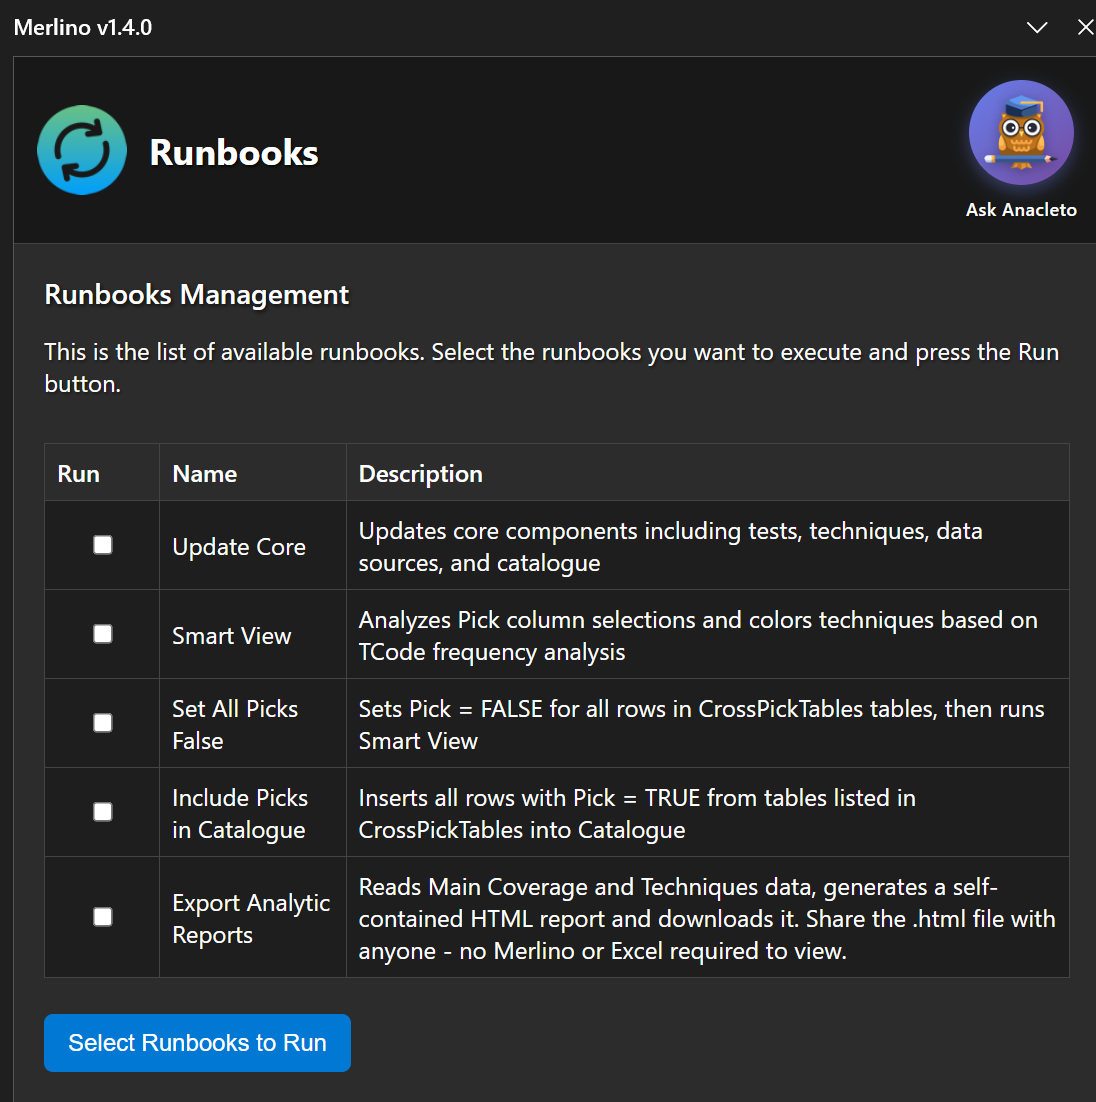
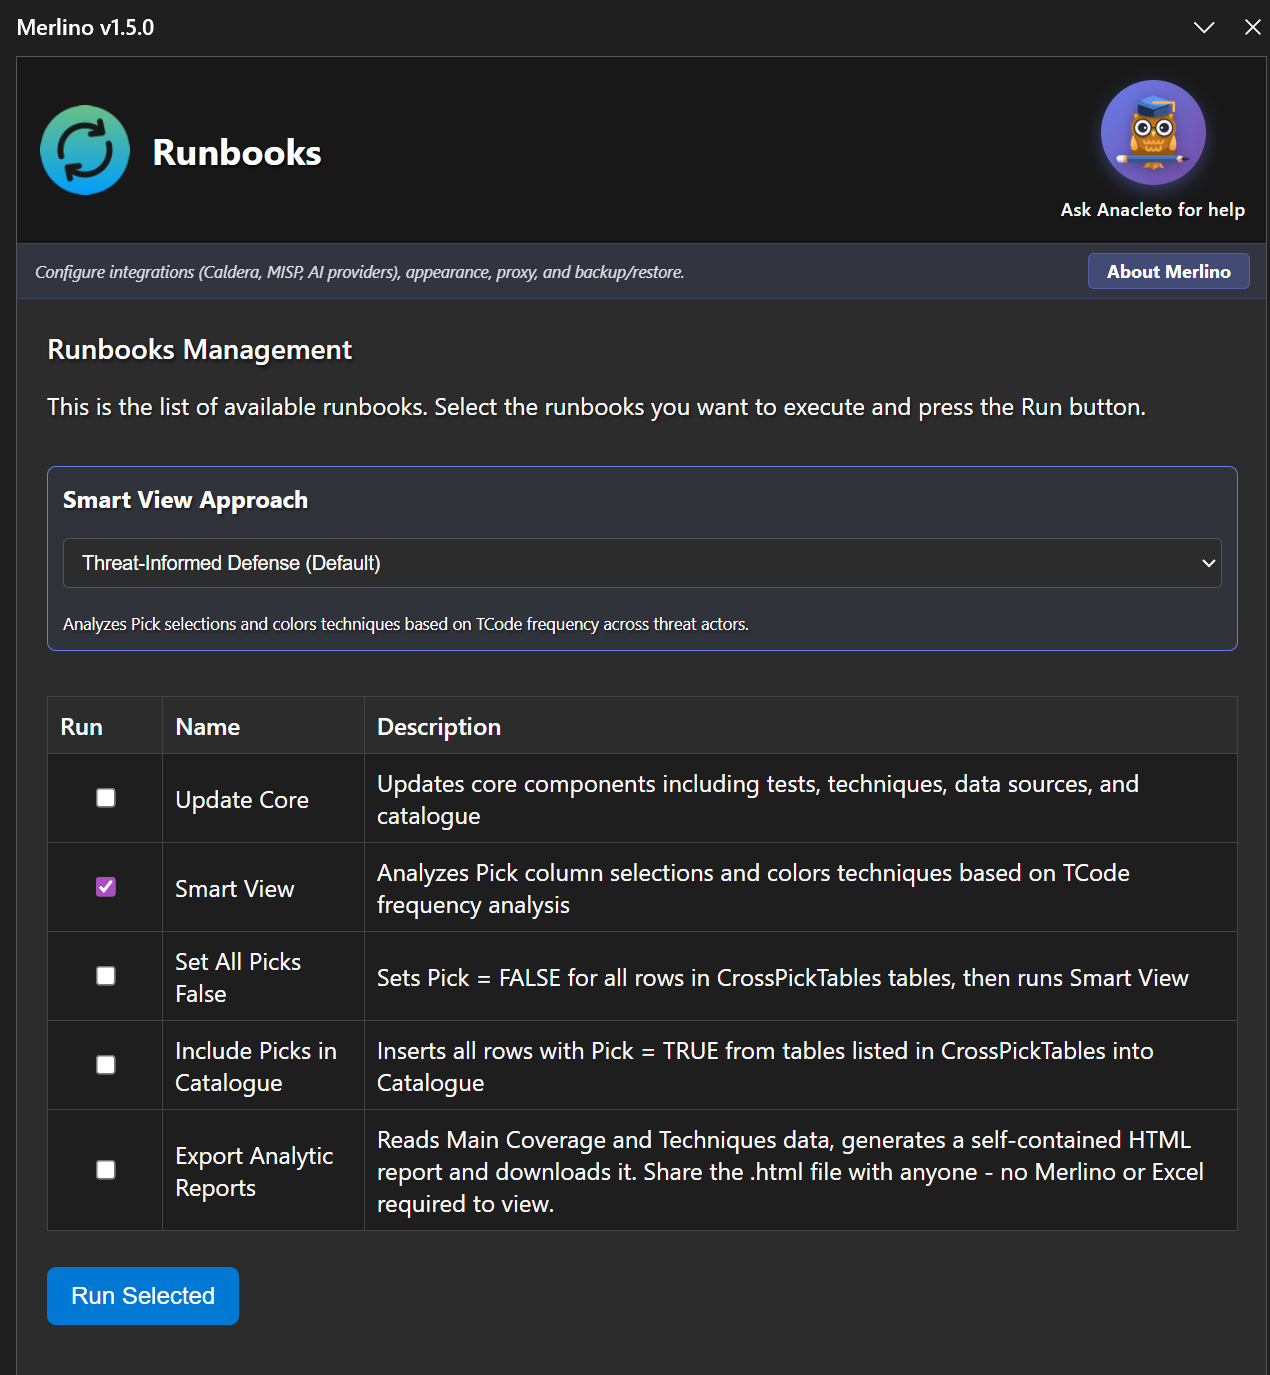
Lab01 updated

diff --git a/laboratories/Merlino User Guide-Lab 01--Create-Organization-Threat-Profile.md b/laboratories/Merlino User Guide-Lab 01--Create-Organization-Threat-Profile.md
@@ -416,23 +416,37 @@ Runbooks are automated multi-step workflows that process and correlate data acro
 | Runbook | Description |
 |---|---|
 | **Update Core** | Updates core components: cross-references techniques, tests, data sources, and the catalogue. Rebuilds the Main Coverage matrix. |
-| **Smart View** | Analyzes Pick column selections across all tables and colors techniques based on TCode frequency analysis. Produces the visual heatmap. |
+| **Smart View** | Analyzes Pick column selections across all tables and colors techniques based on the selected analysis approach. Produces the visual heatmap. |
 | **Set All Picks False** | Resets all Pick columns to FALSE across all tables, then runs Smart View to clear the heatmap. |
 | **Include Picks in Catalogue** | Copies all rows with Pick = TRUE from Groups, Software, Campaigns, Tests, etc. into the Catalogue -- the central table that drives the entire Techniques Coverage analysis. |
 | **Export Analytic Reports** | Generates a self-contained HTML report from the current analysis that can be shared and viewed without Excel or Merlino. |
 
+### Smart View Approach Selector
+
+At the top of the Runbooks taskpane, above the runbook list, you will find the **Smart View Approach** selector. This dropdown controls **how Smart View analyzes and colors the Main Coverage matrix** when it runs. Merlino offers four distinct analysis modes, each designed for a different analytical objective:
+
+| Approach | Description |
+|---|---|
+| **Threat-Informed Defense** (Default) | Analyzes Pick selections and colors techniques based on TCode frequency across threat actors. This is the standard mode for building threat profiles and understanding which techniques your adversaries use most often. |
+| **Attribution Analysis** | Collects all picked TCodes and runs TTP Attribution Analysis to identify matching threat groups, campaigns, and software. Useful when you want to understand which known actors match a particular set of techniques. |
+| **Coverage Gap Analysis** | Compares threat TCodes (from picked Groups, Campaigns, and Software) against Catalogue defenses to identify detection gaps. Highlights techniques where your threat exposure exceeds your detection coverage. |
+| **Priority Defense** | Combines threat frequency with coverage gaps to prioritize the most critical undefended techniques. This is the most advanced mode -- it tells you where to invest your defensive resources first. |
+
+**For this laboratory, leave the default selection: Threat-Informed Defense.** This is the right approach when your goal is to build a threat profile based on adversary groups and understand their TTP landscape. The other approaches are covered in subsequent laboratories where they become relevant (e.g., Coverage Gap Analysis is especially powerful in *Lab 02* when comparing threat profiles against Microsoft Sentinel detection coverage).
+
 ### Running Update Core
 
 1. Open the Runbooks taskpane
-2. Select (check) **Update Core**
-3. Click **Execute Selected Runbooks**
-4. Wait for the execution to complete -- Merlino processes all imported data and builds the Main Coverage matrix
+2. Verify that the **Smart View Approach** is set to **Threat-Informed Defense** (the default)
+3. Select (check) **Update Core**
+4. Click **Execute Selected Runbooks**
+5. Wait for the execution to complete -- Merlino processes all imported data and builds the Main Coverage matrix
 
 After completion, navigate to the **Main Coverage** sheet. You will see the ATT&CK technique matrix with columns for each tactic and rows of techniques. At this point, the matrix is empty (no colors) because no threat groups have been selected yet.
 
 ![Runbooks Taskpane](img/18-runbooks-taskpane.png)
 
-*The Runbooks taskpane showing all available runbooks with checkboxes. "Update Core" is checked and the "Execute Selected Runbooks" button is visible at the bottom.*
+*The Runbooks taskpane showing the Smart View Approach selector at the top (set to "Threat-Informed Defense"), the available runbooks with checkboxes below, and the "Execute Selected Runbooks" button at the bottom.*
 
 ![Main Coverage Empty](img/19-main-coverage-empty.png)
 
